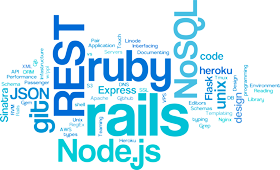
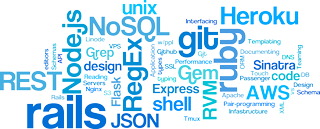
New tag clouds. More spacing in curriculum section. Headers align better now

diff --git a/public/js/bin/landing.js b/public/js/bin/landing.js
@@ -117,7 +117,7 @@
 
   fixCurriculum = function() {
     var EXP_LEN, bar_w, el, factor, scroll_top, _i, _len, _ref, _results;
-    EXP_LEN = 400;
+    EXP_LEN = $(window).height() / 4;
     bar_w = cache.row_width - cache.icon_width;
     $(".bar").width(bar_w);
     if ($(window).width() >= SIZE_CUTOFF) {

diff --git a/public/css/src/index.less b/public/css/src/index.less
@@ -6,6 +6,7 @@
 
 // ==== Miscellaneous =============================================== //
 hr {
+  margin:40px 0;
   border-top:1px solid rgba(0,0,0,0.1);
   border-bottom:1px solid rgba(255,255,255,0.7);
   height:2px;

diff --git a/public/css/bin/index.css b/public/css/bin/index.css
@@ -4113,6 +4113,7 @@ p {
   font-style: normal;
 }
 hr {
+  margin: 40px 0;
   border-top: 1px solid rgba(0, 0, 0, 0.1);
   border-bottom: 1px solid rgba(255, 255, 255, 0.7);
   height: 2px;
